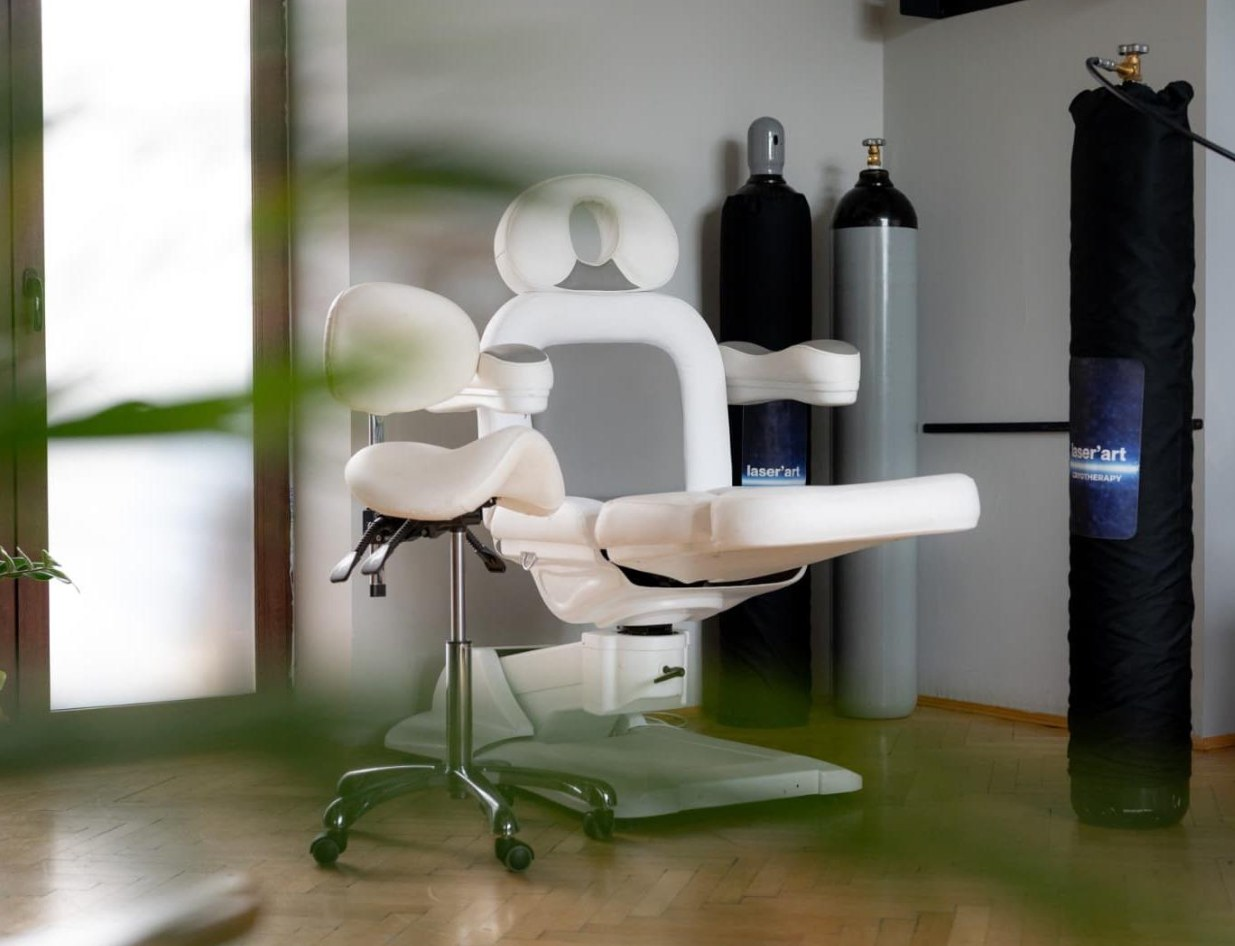
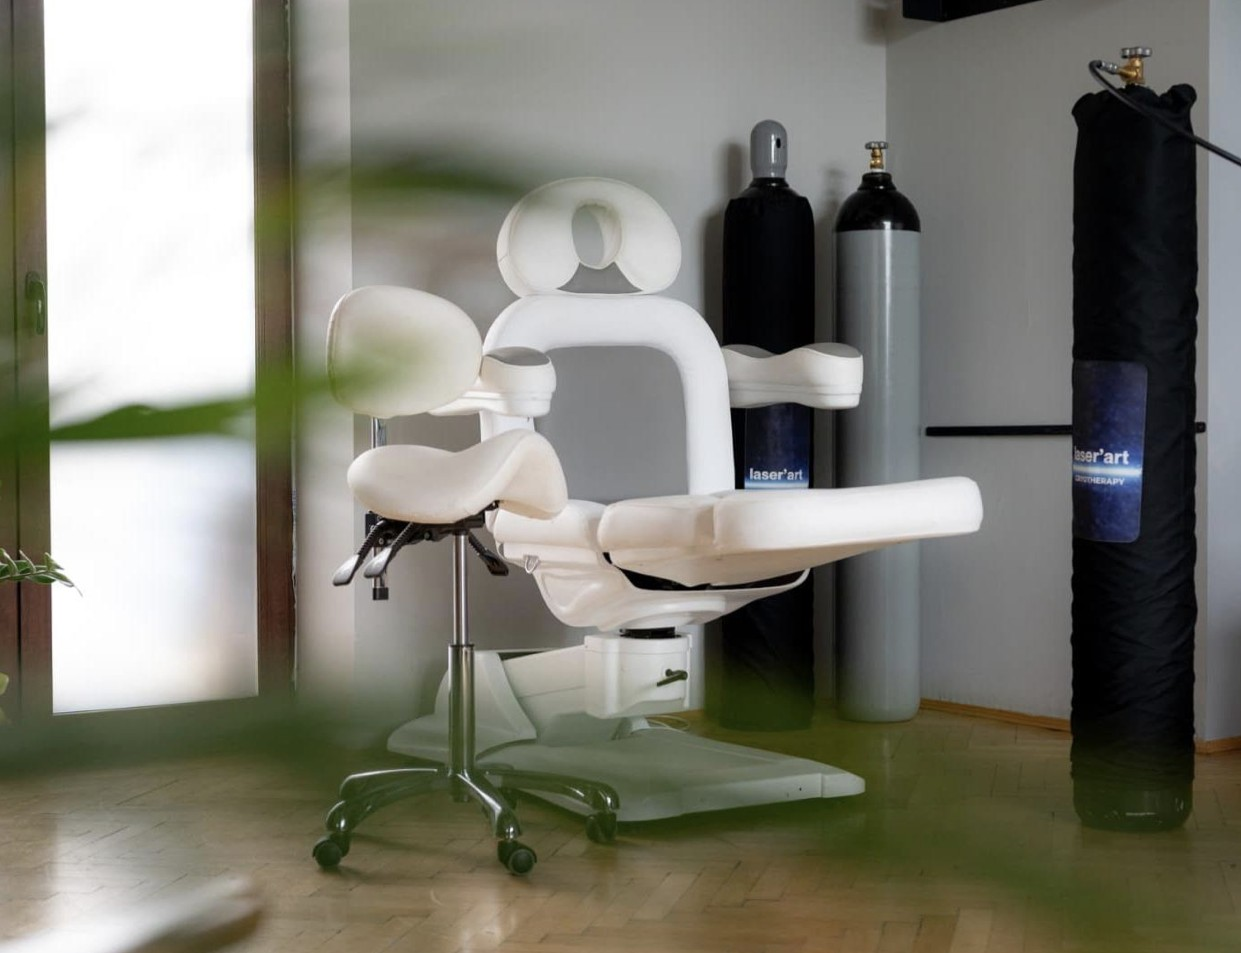
Replace Metoden photo with higher-quality clinic chair shot

diff --git a/web/app/page.tsx b/web/app/page.tsx
@@ -231,8 +231,8 @@ export default function Home() {
         <section id="metoden" className="section section--tint" aria-labelledby="met-h">
           <div className="wrap feature feature--reverse">
             <Photo
-              file="treatment-shoulder.jpg"
-              alt="Axelbehandling med AC-130 Viper och pekskärm med sessionstimer"
+              file="clinic-chair.jpg"
+              alt="Behandlingsstol och CO₂-tankar i en klinik"
               className="feature__photo"
               sizes="(max-width: 900px) 100vw, 45vw"
             />
